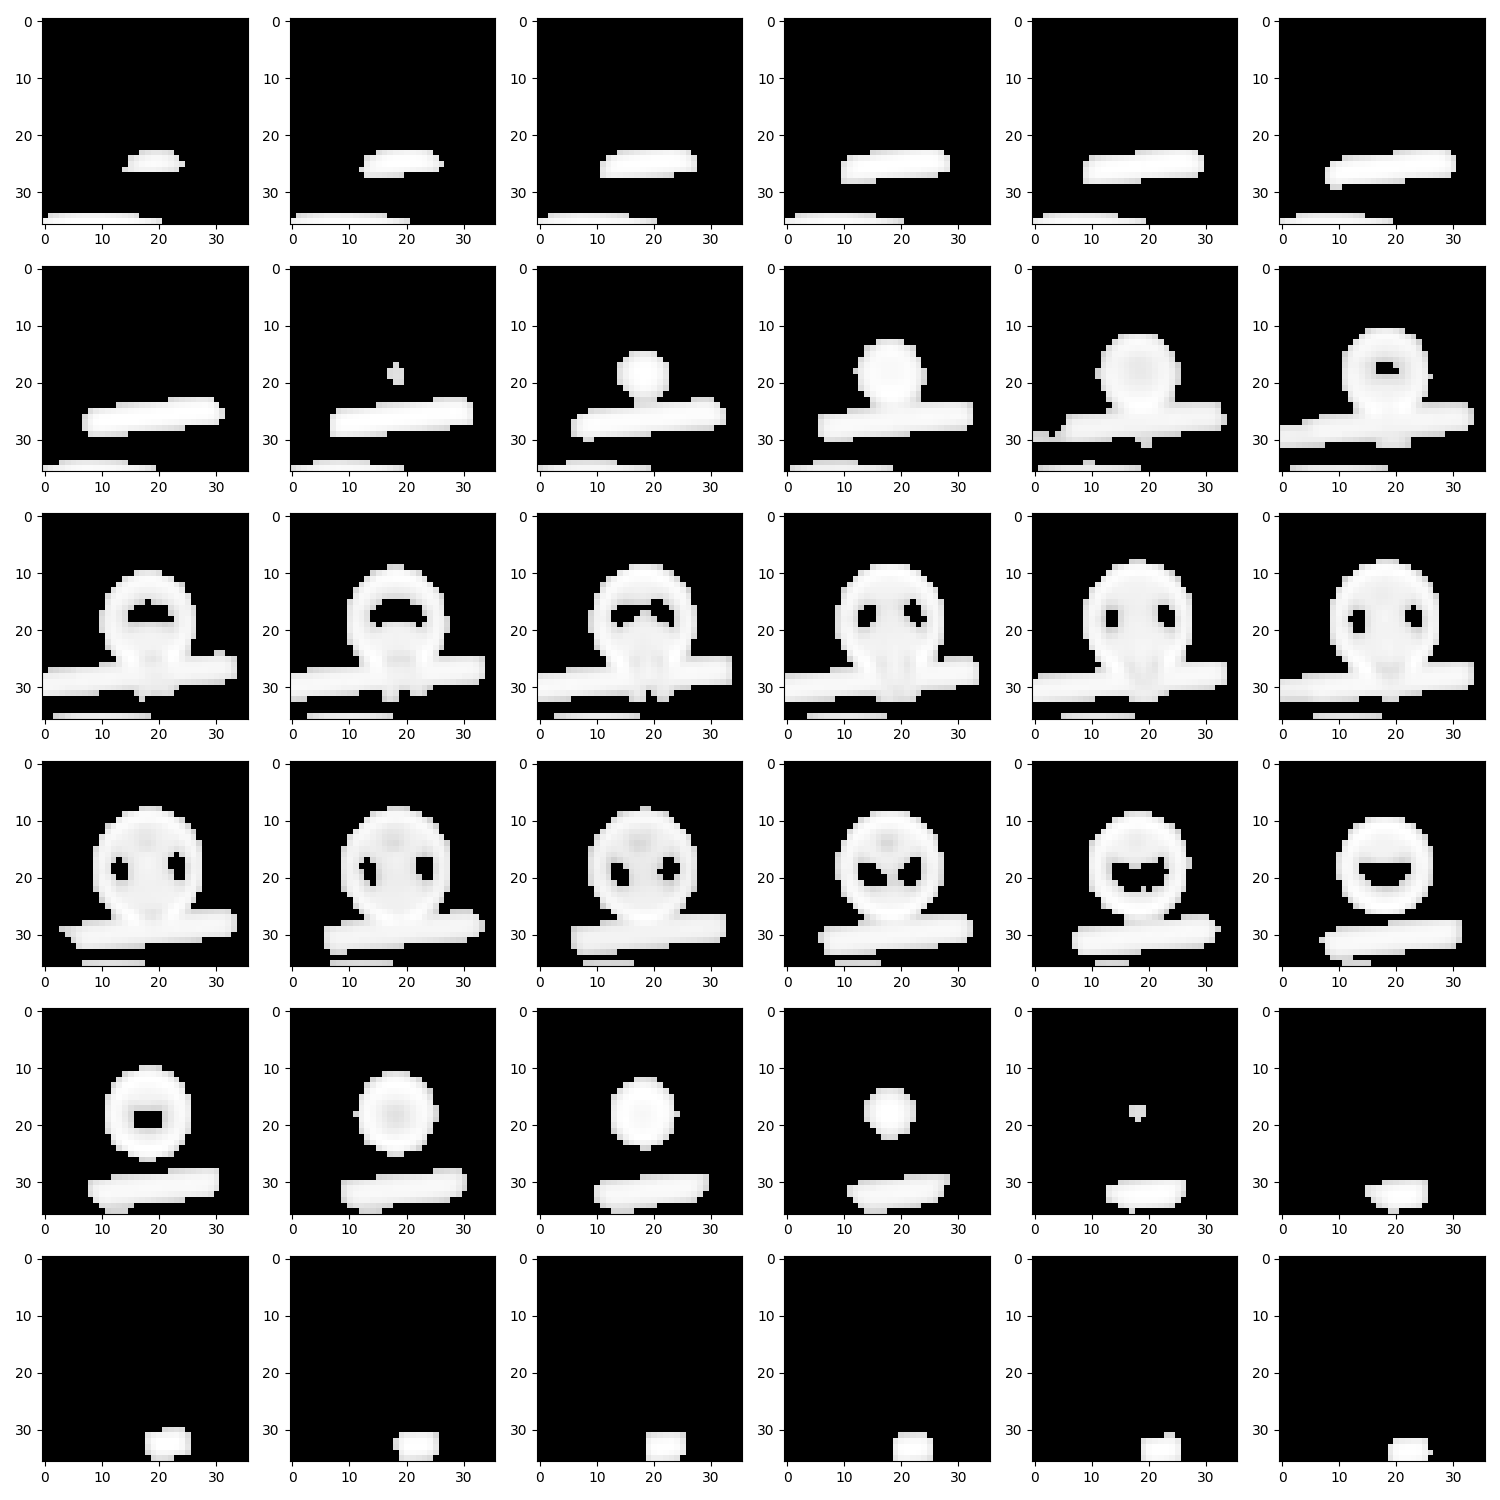
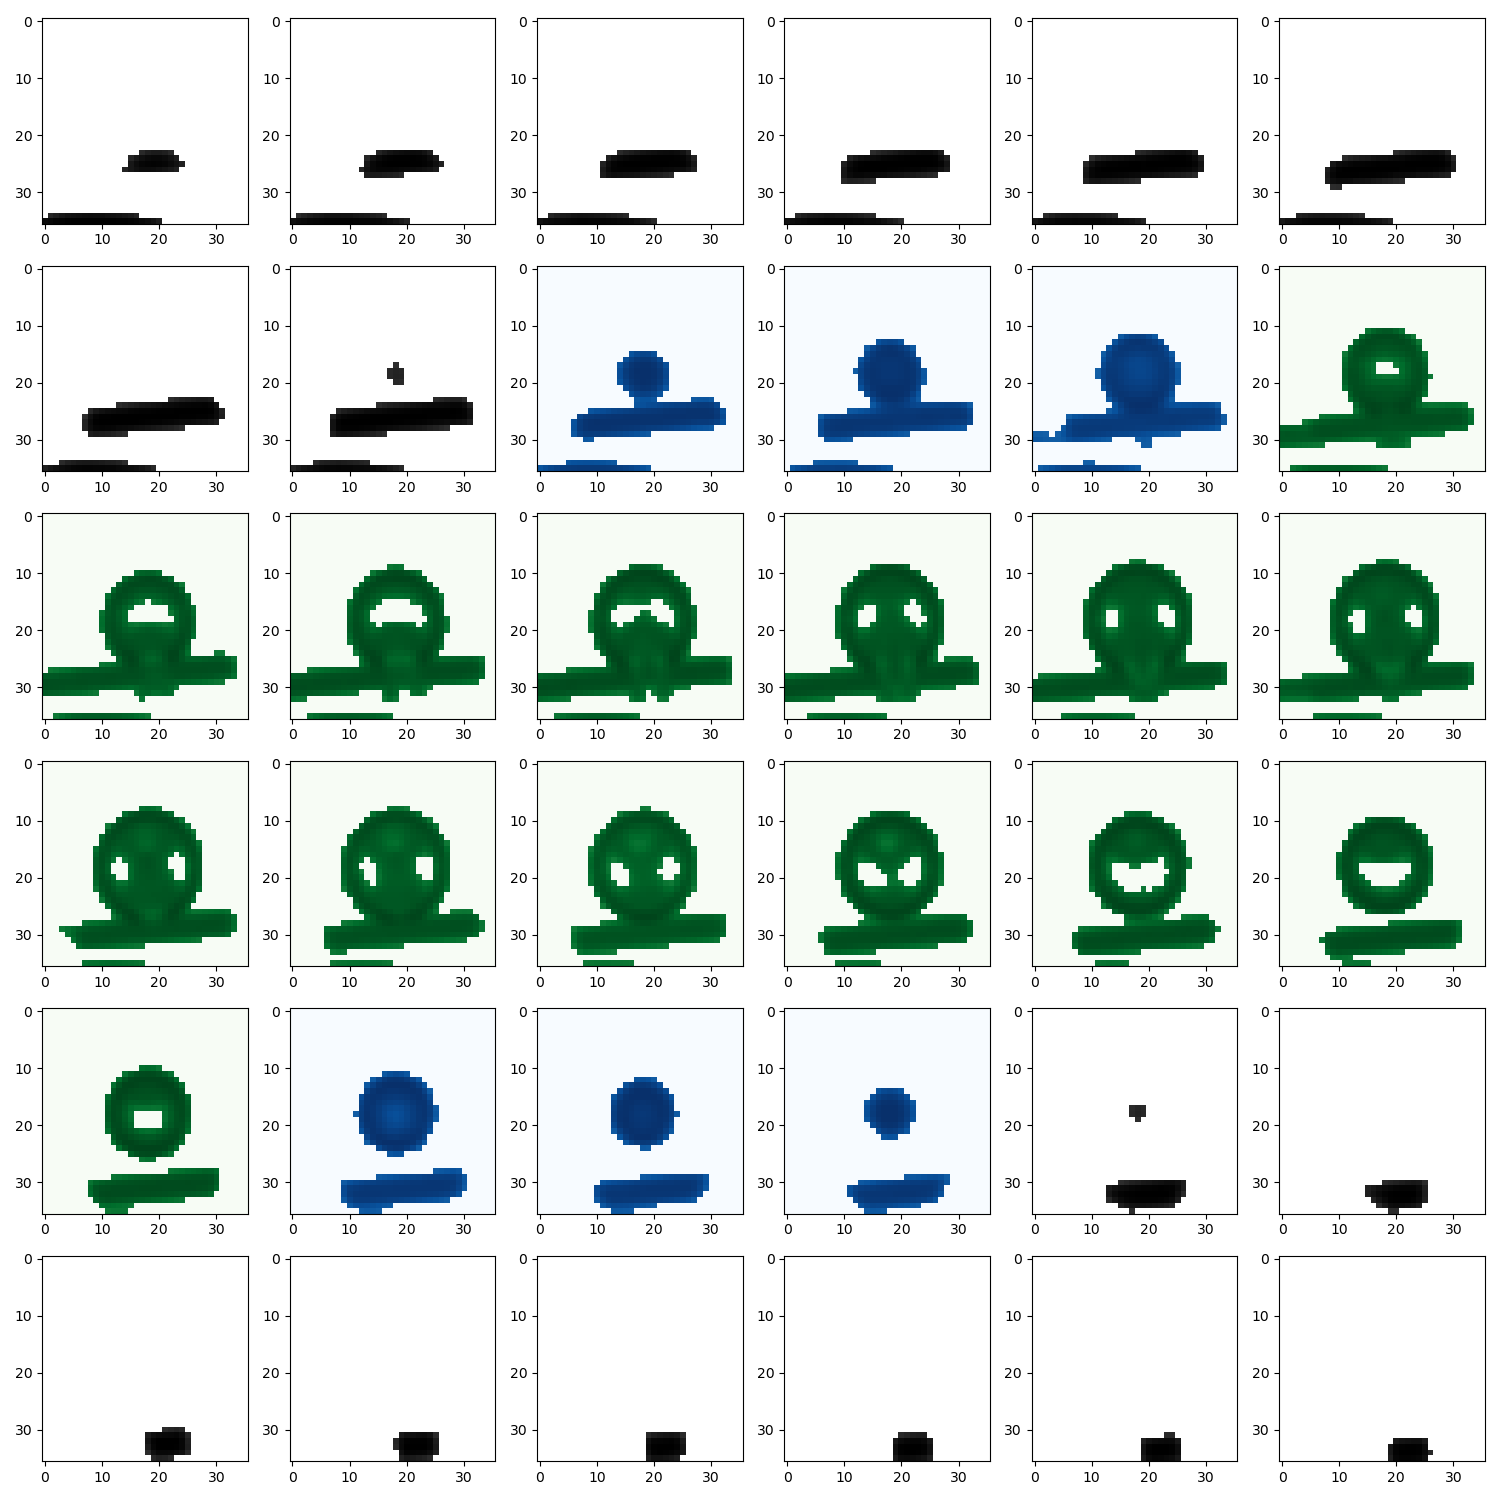
feat:color_img

diff --git a/dcm_ball_detector/advanced_box_method_test.py b/dcm_ball_detector/advanced_box_method_test.py
@@ -37,11 +37,23 @@ def svm_check_all_file_in_folder_and_dump_log(folder: str):
         image         = image_log.create_image_from_log_numpy_array_with_center_coord_list(log_numpy_arr, coord_dict[timenow])
         image_log.save_image_to_log_folder(image)
 
+# 根据不同的类别选择颜色模式，以形象地展示识别效果
+def select_color_with_checker(checker, image2d):
+    tag = checker(image2d)
+    if tag == "is_not_ball": # 灰色显示不是球的东西
+        return "Grays"
+    elif tag == "is_small_ball": # 蓝色显示小球
+        return "Blues"
+    elif tag == "is_large_ball": # 绿色显示大球
+        return "Greens"
+    else:
+        assert False # tag not found
+
 # 选择一个指定的 36x36x36 的区域
-# 将其展示到屏幕
-def save_6x6_sample_for_certain_cube(folder, index, center_x, center_y):
+# 保存到日志文件夹
+def save_6x6_sample_for_certain_cube(folder, index, center_x, center_y, checker):
     image3d = cube_get.get_cube_from_log_numpy_list_in_folder_around_center(folder, index, center_x, center_y)
-    matplotlib_utils.show_6x6_numpy_array(image3d, save=True, show=False)
+    matplotlib_utils.show_6x6_numpy_array(image3d, save=True, show=False, color_selector=lambda image2d: select_color_with_checker(checker, image2d))
 
 # 对检测到的标志物中心的帧进行圈圈处理，并将圈圈后的图片存入日志
 # 看起来精度已经很准很准了，不知道后续还是否需要继续优化
@@ -57,5 +69,5 @@ def svm_get_ball_centers_in_folder_and_dump_log(folder: str):
         log_numpy_arr = dcm_interface.get_log_numpy_array_from_dcm_file(filename)
         image         = image_log.create_image_from_log_numpy_array_with_center_coord_list(log_numpy_arr, [(xpos, ypos)])
         image_log.save_image_to_log_folder(image)
-        save_6x6_sample_for_certain_cube(folder, time, xpos, ypos)
+        save_6x6_sample_for_certain_cube(folder, time, xpos, ypos, advanced_box_method.svm_checker)
     stderr_log.log_tips("relevant images in: %s" % os_interface.LOG_IMAGE_FOLDER)

diff --git a/dcm_ball_detector/advanced_box_method.py b/dcm_ball_detector/advanced_box_method.py
@@ -19,19 +19,24 @@ def get_available_svm():
     svm_2 = svm_utils.get_svm_predictor(INNER_POS_IMAGE, INNER_NEG_IMAGE, False, "for period detect")
     return svm_1, svm_2
 
-# 对 36x36 的 log 对数数据进行预测
-# 使用两个 svm 进行二分类
-def get_prediction_on_log_numpy_array(log_numpy_array):
+# 使用二层 svm 对图像进行分类
+def svm_checker(log_numpy_array) -> str:
     svm1, svm2  = get_available_svm()
     image       = image_log.create_image_from_log_numpy_array(log_numpy_array)
     numpy_array = np.array(image)
     assert numpy_array.shape == log_numpy_array.shape
     numpy_array = numpy_array.flatten()
     if svm1.predict([numpy_array])[0] == 1: # 说明外层 svm 呈阴性
-        return False
+        return "is_not_ball"
     if svm2.predict([numpy_array])[0] == 1: # 说明内层 svm 呈阴性
-        return False
-    return True # 说明内层外层都呈现阳性
+        return "is_small_ball"
+    return "is_large_ball" # 说明内层外层都呈现阳性
+
+# 对 36x36 的 log 对数数据进行预测
+# 使用两个 svm 进行二分类，仅用于对大球的识别
+def get_prediction_on_log_numpy_array(log_numpy_array):
+    tag = svm_checker(log_numpy_array)
+    return (tag == "is_large_ball")
 
 # 寻找所有可能成为标志物的时刻以及矩形框
 # 在先前筛选的基础上，进一步引入 SVM 进行筛选

diff --git a/dcm_ball_detector/matplotlib_utils.py b/dcm_ball_detector/matplotlib_utils.py
@@ -40,14 +40,18 @@ def generate_random_string(length):
 
 # 给定一个 36xPxQ 的矩阵
 # 把他以 6x6 的图片形式输出到屏幕上
-def show_6x6_numpy_array(single_numpy_array, save=False, show=True):
+# color_selector 用于根据具体图片选择合适的颜色模式以供图片的展示
+def show_6x6_numpy_array(single_numpy_array, save=False, show=True, color_selector=None):
     assert len(single_numpy_array.shape) == 3
     tlen, xlen, ylen = single_numpy_array.shape
     assert tlen == 36 # 不支持其他值的处理
     fig, axs = plt.subplots(6, 6, figsize=(15, 15)) # 设置图像堆叠方式
     for i in range(6):
         for j in range(6):
-            axs[i, j].imshow(single_numpy_array[i * 6 + j], cmap="gray")
+            if color_selector is None:
+                axs[i, j].imshow(single_numpy_array[i * 6 + j], cmap="Grays")
+            else:
+                axs[i, j].imshow(single_numpy_array[i * 6 + j], cmap=color_selector(single_numpy_array[i * 6 + j]))
     plt.tight_layout() # 调整子图间距
     if show: # 是否输出到屏幕
         plt.show()

diff --git a/README.md b/README.md
@@ -40,6 +40,7 @@ python3 -m dcm_ball_detector # 运行检测程序
 
 <img src="./img/img_process.png" style="width: 400px">
 
+- 其中绿色图像表示该图像被识别为 “标志物的大球阶段”，蓝色图像表示该图像被识别为 “标志物的小球阶段”。
 - 第二类图片展示了某个标志物中心点出现在 CT 断层中的那个时刻的影像，并用红色的圆将其中的标志物圈出，例如：
 
 <img src="./img/img_dcm.png" style="width: 400px">
